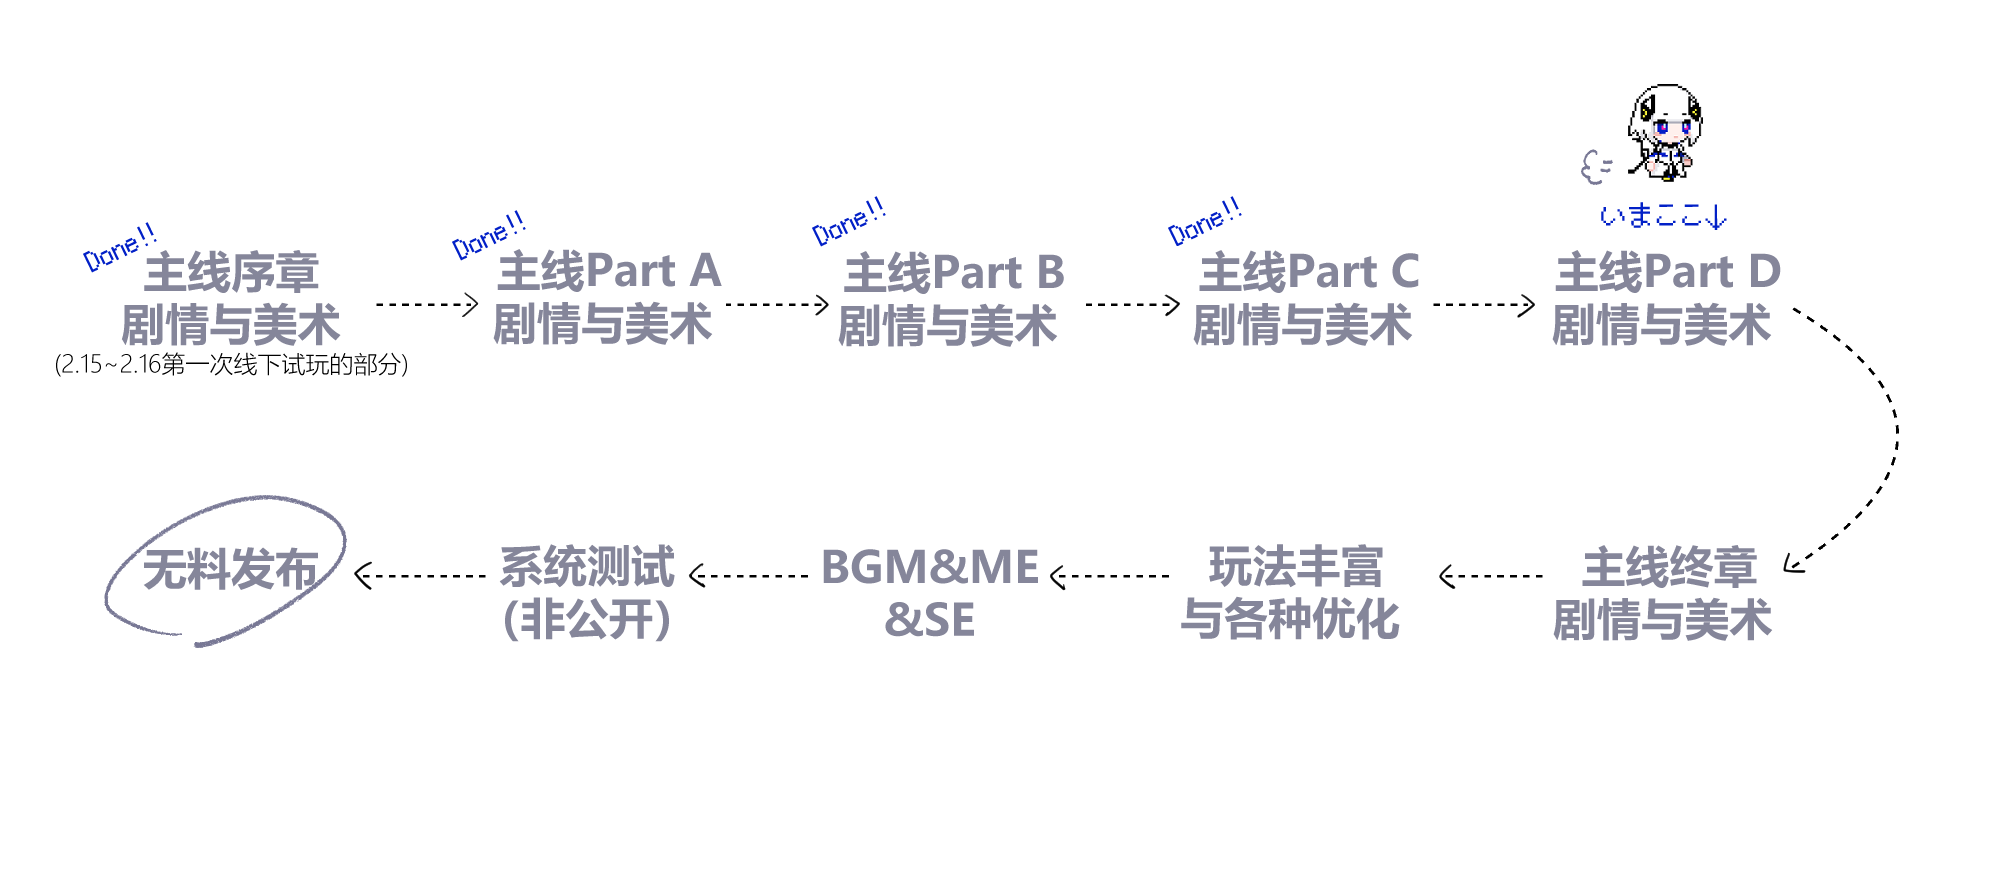
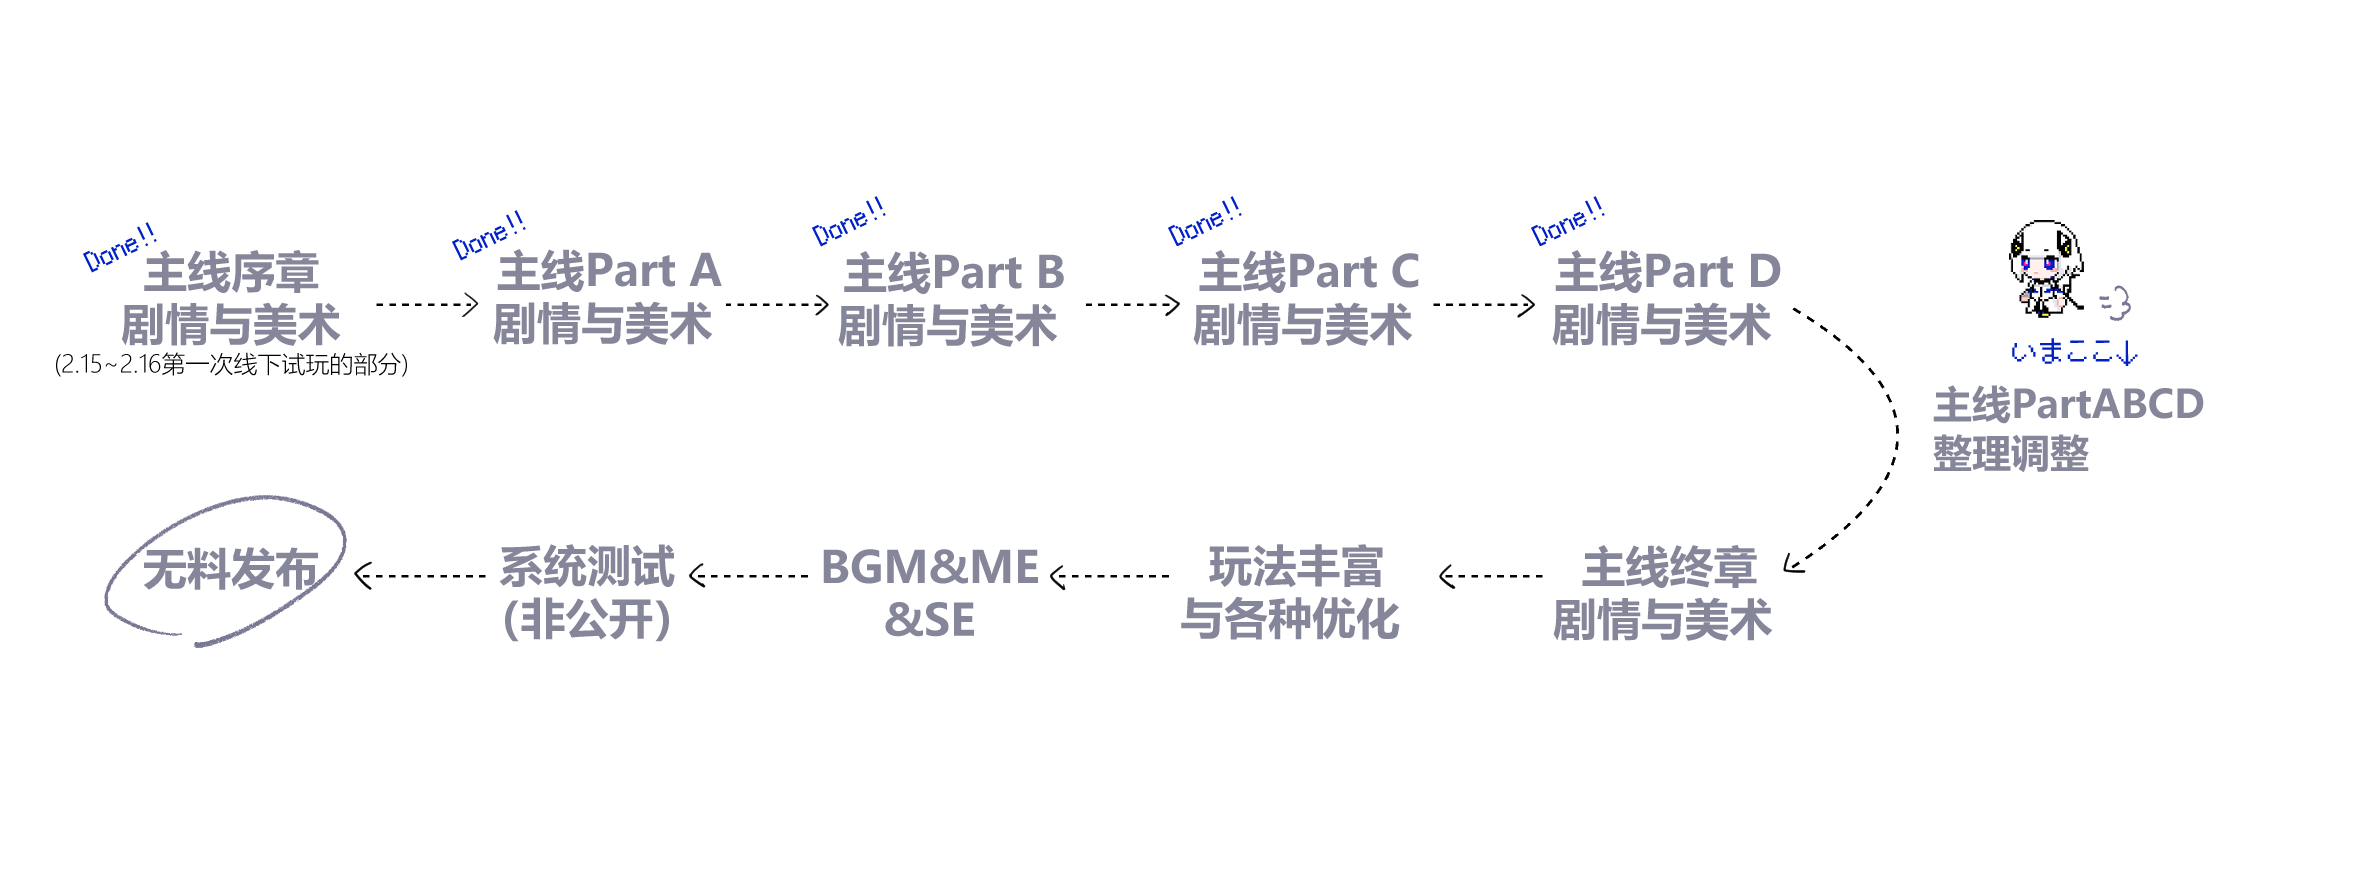
update doc

diff --git a/_posts/2024-12-12-kafu-in-area-0.md b/_posts/2024-12-12-kafu-in-area-0.md
@@ -49,6 +49,7 @@ toc: true
 ## ◇ 项目里程碑 ◇
 ![picture](/fukamikamo-blog/assets/posts/kafu-in-area-0/9-1.png)
 【更新日志】
+* 【2026/02/07】partD制作100%，在终章制作开始之前，先进入短暂的调整阶段；
 * 【2026/01/10】RPG制作再开；
 * 【2025/12/01】因为在绘制新漫画，11月中~12月末游戏制作暂停，漫画完成后制作再开；
 * 【2025/11/13】partD制作50%；
@@ -78,21 +79,10 @@ toc: true
 ![picture 3](/fukamikamo-blog/assets/posts/kafu-in-area-0/3.png)
 ![picture 4](/fukamikamo-blog/assets/posts/kafu-in-area-0/4.png)
 
-## ◇ 活动记录 ◇
-### ◆ CPGZ07(2025-02-15 ~ 2025-02-16)
-本作的demo版本将于CPGZ07进行第一次线下试玩。
-
-可以游玩约10分钟左右的流程（本作故事的序章部分）。
-
-<b>线下活动特典：</b>
-* 「カフと未完成な零番街」主人公酱明信片一枚
-* 「カフと未完成な零番街」主人公酱粒牌一枚（通过扭蛋的方式在两种样式中随机一种）
-  * 请鸭子喝过咖啡的朋友可以直接领取两种
-  
-![picture](/fukamikamo-blog/assets/posts/kafu-in-area-0/event-1.png)
 
 ---
 
+## ◇ 零番街涂鸦墙 ◇
 
-## Under construction……
-随着建设进度的推进，这里将会更新更多的信息。
+
+---
